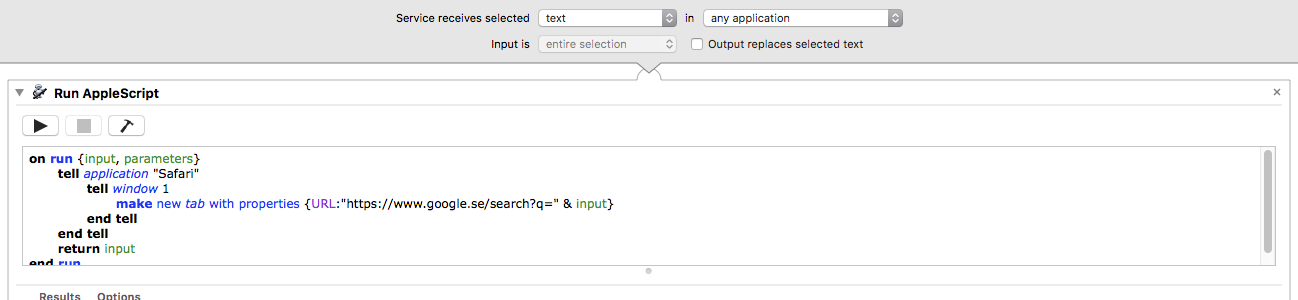
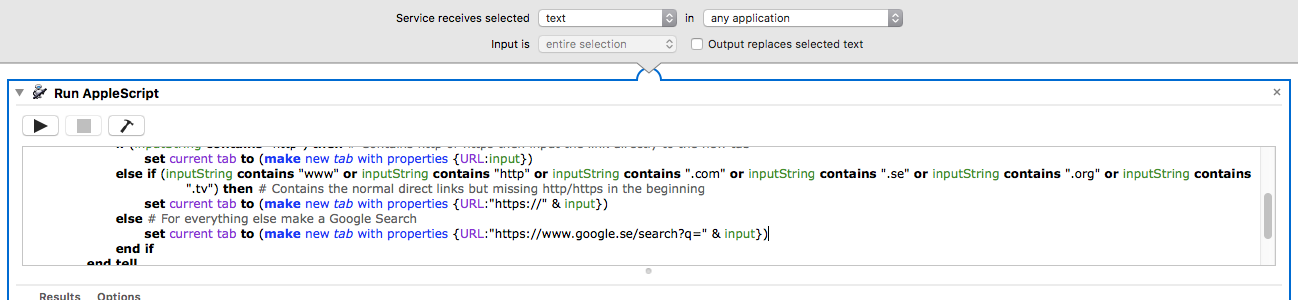
Updated "Search with Google" to directly open if its a link

Changed region(s): [[0.0, 0.24, 1.0, 1.0]]

diff --git a/README.md b/README.md
@@ -95,9 +95,10 @@ A service which allows you to rightclick any text on your Mac and do a ThePirate
 It opens the search in a new tab.
 Install the workflow file as a service.
 
-## Search with Google
+## Search with Google / Open direct link
 A service which allows you to rightclick any text on your Mac and do a Google search of the text if you click the "Search with Google".
-It opens the search in a new tab.
+But if it really is a direct link(contains some of the popular stuff like http, https, .com, .org etc) then open the link directly
+It opens the search/link in a new tab.
 Install the workflow file as a service.
 
 ## Convert video to 1080p(Google Cardboard compatible)
